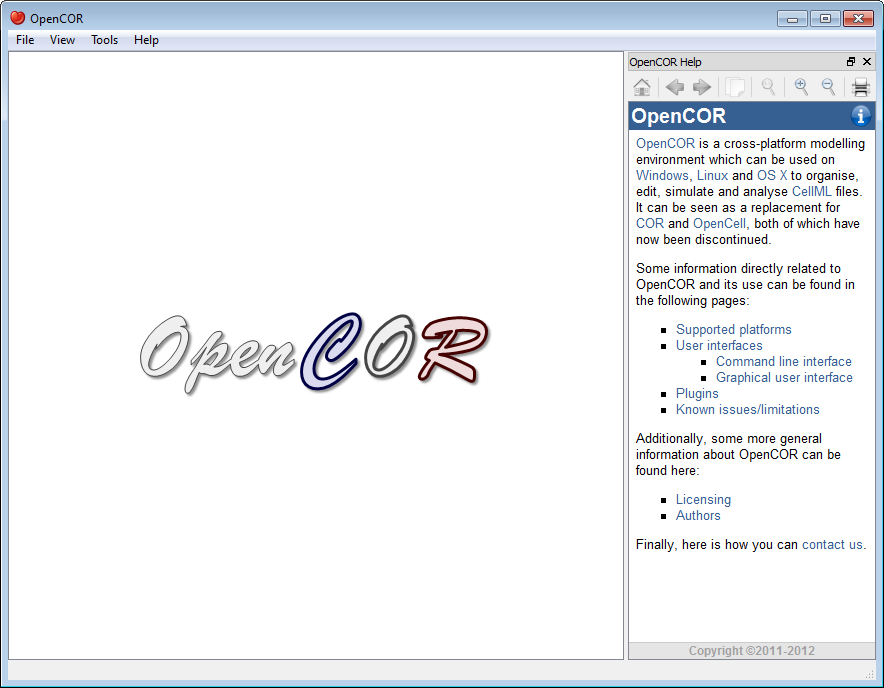
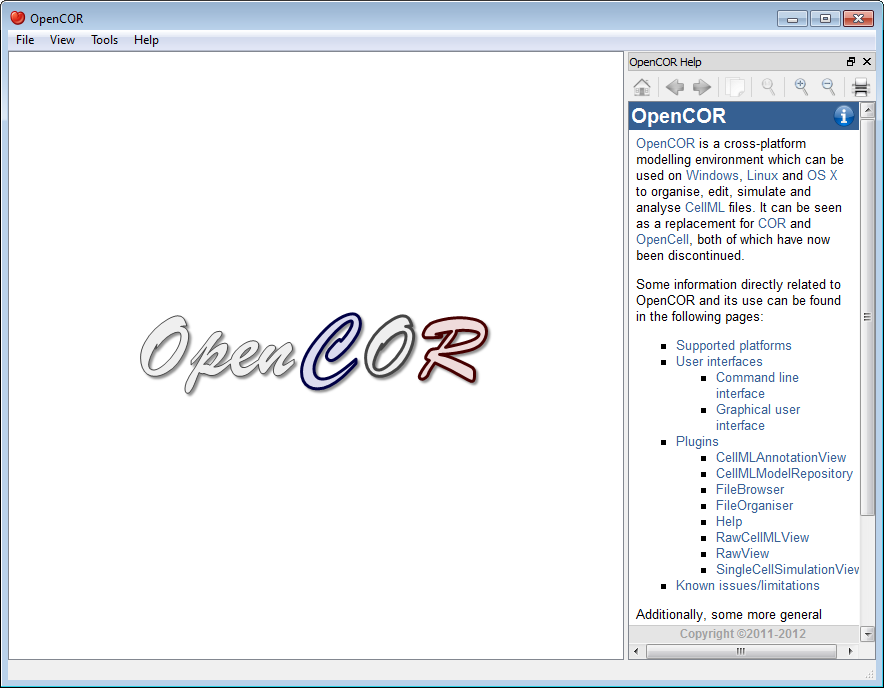
Some work on the documentation.

Changed region(s): [[0.7025, 0.1526, 1.0, 0.8547], [0.7025, 0.8852, 1.0, 0.9767]]

diff --git a/doc/user/plugins/index.html b/doc/user/plugins/index.html
@@ -7,19 +7,19 @@
 
         <meta http-equiv="content-type" content="text/html; charset=utf-8"/>
 
-        <link href="res/stylesheet.css" rel="stylesheet" type="text/css"/>
+        <link href="../res/stylesheet.css" rel="stylesheet" type="text/css"/>
 
-        <script src="../3rdparty/jQuery/jquery.js" type="text/javascript"></script>
-        <script src="../res/common.js" type="text/javascript"></script>
-        <script src="res/menu.js" type="text/javascript"></script>
+        <script src="../../3rdparty/jQuery/jquery.js" type="text/javascript"></script>
+        <script src="../../res/common.js" type="text/javascript"></script>
+        <script src="../res/menu.js" type="text/javascript"></script>
     </head>
     <body>
         <script type="text/javascript">
-            headerAndContentsMenu("Plugins", "..");
+            headerAndContentsMenu("Plugins", "../..");
         </script>
 
         <p>
-            OpenCOR is a plugin-based application. This means that if no plugins are selected, then OpenCOR can do <a href="userInterfaces/graphicalUserInterface.html">next to nothing</a>.
+            OpenCOR is a plugin-based application. This means that if no plugins are selected, then OpenCOR can do <a href="../userInterfaces/graphicalUserInterface.html">next to nothing</a>.
         </p>
 
         <p>
@@ -27,20 +27,20 @@
         </ul>
 
         <p>
-            <img class="center" src="res/pics/pluginsScreenshot01.png" width=651 height=338 alt="Help plugin: home">
+            <img class="center" src="../res/pics/pluginsScreenshot01.png" width=651 height=338 alt="Help plugin: home">
         </p>
 
         <p>
-            You can select which plugins you want to use. However, there are plugins which are needed by other plugins (e.g. the Core and QJson plugins are needed by the <a href="plugins/CellMLModelRepository.html">CellMLModelRepository</a> plugin) and therefore cannot be directly selected. Instead, they will be automatically selected if and only if they are needed by another plugin.
+            You can select which plugins you want to use. However, there are plugins which are needed by other plugins (e.g. the Core and QJson plugins are needed by the <a href="CellMLModelRepository.html">CellMLModelRepository</a> plugin) and therefore cannot be directly selected. Instead, they will be automatically selected if and only if they are needed by another plugin.
         </p>
         
         <p>
-            Most of the selectable plugins come with some kind of a <a href="userInterfaces/graphicalUserInterface.html">graphical user interface</a> (GUI):
+            Most of the selectable plugins come with some kind of a <a href="../userInterfaces/graphicalUserInterface.html">graphical user interface</a> (GUI):
         </p>
 
         <ul>
-            <li><strong>Dockable window:</strong> such a plugin (e.g. the <a href="plugins/CellMLModelRepository.html">CellMLModelRepository</a> and <a href="plugins/Help.html">Help</a> plugins) can be docked around the central area, undocked or even hidden, as illustrated <a href="userInterfaces/graphicalUserInterface.html">here</a>.</li>
-            <li><strong>View window:</strong> such a plugin (e.g. the <a href="plugins/CellMLAnnotationView.html">CellMLAnnotationView</a> and <a href="plugins/SingleCellSimulationView.html">SingleCellSimulationView</a> plugins) is used to interact with a file, be it to edit it, simulate it or analyse it.</li>
+            <li><strong>Dockable window:</strong> such a plugin (e.g. the <a href="CellMLModelRepository.html">CellMLModelRepository</a> and <a href="Help.html">Help</a> plugins) can be docked around the central area, undocked or even hidden, as illustrated <a href="../userInterfaces/graphicalUserInterface.html">here</a>.</li>
+            <li><strong>View window:</strong> such a plugin (e.g. the <a href="CellMLAnnotationView.html">CellMLAnnotationView</a> and <a href="SingleCellSimulationView.html">SingleCellSimulationView</a> plugins) is used to interact with a file, be it to edit it, simulate it or analyse it.</li>
         </ul>
 
         <div class="section">
@@ -52,9 +52,9 @@
         </p>
 
         <ul>
-            <li><strong><a href="plugins/CellMLModelRepository.html">CellMLModelRepository</a>:</strong> a plugin to access the <a href="http://models.cellml.org/">CellML Model Repository</a>.</li>
-            <li><strong><a href="plugins/FileBrowser.html">FileBrowser</a>:</strong> a plugin to access your local files.</li>
-            <li><strong><a href="plugins/FileOrganiser.html">FileOrganiser</a>:</strong> a plugin to virtually organise your files.</li>
+            <li><strong><a href="CellMLModelRepository.html">CellMLModelRepository</a>:</strong> a plugin to access the <a href="http://models.cellml.org/">CellML Model Repository</a>.</li>
+            <li><strong><a href="FileBrowser.html">FileBrowser</a>:</strong> a plugin to access your local files.</li>
+            <li><strong><a href="FileOrganiser.html">FileOrganiser</a>:</strong> a plugin to virtually organise your files.</li>
         </ul>
 
         <div class="section">
@@ -66,9 +66,9 @@
         </p>
 
         <ul>
-            <li><strong><a href="plugins/CellMLAnnotationView.html">CellMLAnnotationView</a>:</strong> a plugin to annotate <a href="http://www.cellml.org/">CellML</a> files.</li>
-            <li><strong><a href="plugins/RawCellMLView.html">RawCellMLView</a>:</strong> a plugin to edit <a href="http://www.cellml.org/">CellML</a> files using an XML editor.</li>
-            <li><strong><a href="plugins/RawView.html">RawView</a>:</strong> a plugin to edit files using a text editor.</li>
+            <li><strong><a href="CellMLAnnotationView.html">CellMLAnnotationView</a>:</strong> a plugin to annotate <a href="http://www.cellml.org/">CellML</a> files.</li>
+            <li><strong><a href="RawCellMLView.html">RawCellMLView</a>:</strong> a plugin to edit <a href="http://www.cellml.org/">CellML</a> files using an XML editor.</li>
+            <li><strong><a href="RawView.html">RawView</a>:</strong> a plugin to edit files using a text editor.</li>
         </ul>
 
         <p>
@@ -92,7 +92,7 @@
             <li><strong>CVODESolver:</strong> a plugin which uses <a href="https://computation.llnl.gov/casc/sundials/description/description.html#descr_cvode">CVODE</a> to solve ODEs.</li>
             <li><strong>ForwardEulerSolver:</strong> a plugin which implements the <a href="http://en.wikipedia.org/wiki/Euler_method">Forward Euler method</a> to solve ODEs.</li>
             <li><strong>IDASolver:</strong> a plugin which uses <a href="https://computation.llnl.gov/casc/sundials/description/description.html#descr_ida">IDA</a> to solve DAEs.</li>
-            <li><strong><a href="plugins/SingleCellSimulationView.html">SingleCellSimulationView</a>:</strong> a plugin to run single cell simulations.</li>
+            <li><strong><a href="SingleCellSimulationView.html">SingleCellSimulationView</a>:</strong> a plugin to run single cell simulations.</li>
         </ul>
 
         <p>
@@ -113,7 +113,7 @@
         </p>
 
         <ul>
-            <li><strong><a href="plugins/Help.html">Help</a>:</strong> a plugin to provide help.</li>
+            <li><strong><a href="Help.html">Help</a>:</strong> a plugin to provide help.</li>
         </ul>
 
         <p>

diff --git a/doc/user/res/menu.js b/doc/user/res/menu.js
@@ -6,7 +6,15 @@ function headerAndContentsMenu(pageName, relativePath) {
                                       new Array(0, "User interfaces", "user/userInterfaces/index.html"),
                                       new Array(1, "Command line interface", "user/userInterfaces/commandLineInterface.html"),
                                       new Array(1, "Graphical user interface", "user/userInterfaces/graphicalUserInterface.html"),
-                                      new Array(0, "Plugins", "user/plugins.html"),
+                                      new Array(0, "Plugins", "user/plugins/index.html"),
+                                      new Array(1, "CellMLAnnotationView", "user/plugins/CellMLAnnotationView.html"),
+                                      new Array(1, "CellMLModelRepository", "user/plugins/CellMLModelRepository.html"),
+                                      new Array(1, "FileBrowser", "user/plugins/FileBrowser.html"),
+                                      new Array(1, "FileOrganiser", "user/plugins/FileOrganiser.html"),
+                                      new Array(1, "Help", "user/plugins/Help.html"),
+                                      new Array(1, "RawCellMLView", "user/plugins/RawCellMLView.html"),
+                                      new Array(1, "RawView", "user/plugins/RawView.html"),
+                                      new Array(1, "SingleCellSimulationView", "user/plugins/SingleCellSimulationView.html"),
                                       new Array(0, "Known issues/limitations", "user/knownIssuesLimitations.html"),
                                       new Array(),
                                       new Array(0, "Licensing", "user/licensing.html"),

diff --git a/doc/user/index.html b/doc/user/index.html
@@ -35,7 +35,19 @@
                     <li><a href="userInterfaces/graphicalUserInterface.html">Graphical user interface</a></li>
                 </ul>
             </li>
-            <li><a href="plugins.html">Plugins</a></li>
+            <li>
+                <a href="plugins/index.html">Plugins</a>
+                <ul>
+                    <li><a href="plugins/CellMLAnnotationView.html">CellMLAnnotationView</a></li>
+                    <li><a href="plugins/CellMLModelRepository.html">CellMLModelRepository</a></li>
+                    <li><a href="plugins/FileBrowser.html">FileBrowser</a></li>
+                    <li><a href="plugins/FileOrganiser.html">FileOrganiser</a></li>
+                    <li><a href="plugins/Help.html">Help</a></li>
+                    <li><a href="plugins/RawCellMLView.html">RawCellMLView</a></li>
+                    <li><a href="plugins/RawView.html">RawView</a></li>
+                    <li><a href="plugins/SingleCellSimulationView.html">SingleCellSimulationView</a></li>
+                </ul>
+            </li>
             <li><a href="knownIssuesLimitations.html">Known issues/limitations</a></li>
         </ul>
 

diff --git a/doc/user/userInterfaces/graphicalUserInterface.html b/doc/user/userInterfaces/graphicalUserInterface.html
@@ -19,7 +19,7 @@
         </script>
 
         <p>
-            OpenCOR offers a consistent graphical user interface across the <a href="../supportedPlatforms.html">different platforms</a> it supports. The look and feel of the interface is determined by the <a href="../plugins.html">plugins</a> you have selected. The first time you run OpenCOR, it will look something like this:
+            OpenCOR offers a consistent graphical user interface across the <a href="../supportedPlatforms.html">different platforms</a> it supports. The look and feel of the interface is determined by the <a href="../plugins/index.html">plugins</a> you have selected. The first time you run OpenCOR, it will look something like this:
         </p>
 
         <p>

diff --git a/doc/developer/develop/index.html b/doc/developer/develop/index.html
@@ -39,10 +39,10 @@
         </p>
 
         <ul>
-            <li><a href="codingStyle.html">Coding style</a>;</li>
-            <li><a href="plugins.html">Plugins</a>;</li>
-            <li><a href="internationalisation.html">Internationalisation</a>; and</li>
-            <li><a href="tests.html">Tests</a>.</li>
+            <li><a href="codingStyle.html">Coding style</a></li>
+            <li><a href="plugins.html">Plugins</a></li>
+            <li><a href="internationalisation.html">Internationalisation</a></li>
+            <li><a href="tests.html">Tests</a></li>
         </ul>
 
         <script type="text/javascript">
